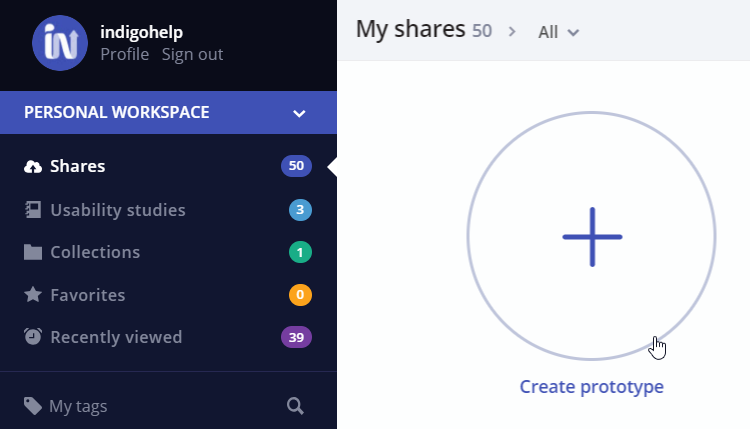
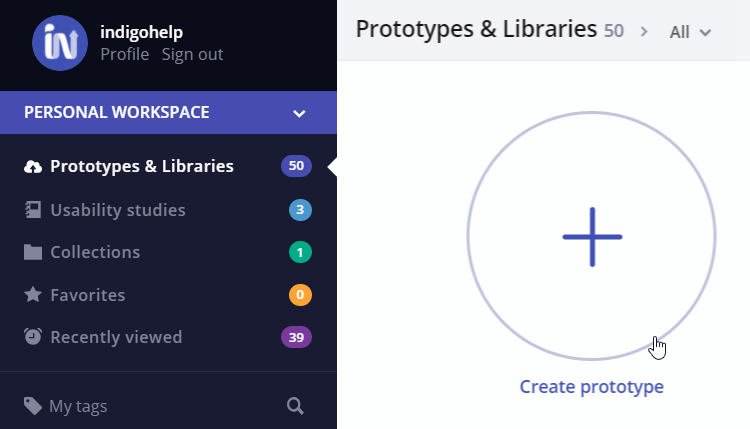
Replace images and text refering to shares instead of to prototypes

diff --git a/en/prototyping/workspaces.md b/en/prototyping/workspaces.md
@@ -47,7 +47,7 @@ You'll see all the prototypes belonging to that workspace.
 Once you select a workspace, any prototypes you create and publish will belong to that workspace. 
 
 > [!Note]
->You can choose any prototype and use the `Copy to workspace` action to make a copy of that share in a different workspace.
+>You can choose any prototype and use the `Copy to workspace` action to make a copy of that prototype in a different workspace.
 
 ### Managing group workspaces
 
@@ -79,10 +79,10 @@ When do I get it? | How do I configure it?
 You're invited to a workspace | It's sent automatically. 
 You're added to a workspace |  It's sent automatically.
 Someone publishes to the workspace | Enable workspace notifications.
-Someone replaces a share | Enable workspace notifications.
-Someone deletes a share | Enable workspace notifications.
+Someone replaces a prototype | Enable workspace notifications.
+Someone deletes a prototype | Enable workspace notifications.
 Someone archives the workspace | Enable workspace notifications.
-There are new comments on a workspace share | Subscribe to notifications for the share.
+There are new comments on a workspace prototype | Subscribe to notifications for the prototype.
 There's a new participant in a workspace usability study | Subscribe to notifications for the usability study.
 
 ##  Learn More

diff --git a/en/prototyping/commenting.md b/en/prototyping/commenting.md
@@ -16,9 +16,9 @@ Prototypes you publish have support for real-time commenting.
 <div class="divider--half"></div>
 <div class="divider--half"></div>
 
-Anyone you share the prototype link with can use the commenting panel in the prototype viewer and also subscribe to receive email notifications when new comments are added to the share.
+Anyone you share the prototype link with can use the commenting panel in the prototype viewer and also subscribe to receive email notifications when new comments are added to the prototype.
 
-To enable comments for your share you can use the settings section in the commenting panel of the prototype viewer toolbar, or the review and commenting options in the detail panel of your share.
+To enable comments for your prototype you can use the settings section in the commenting panel of the prototype viewer toolbar, or the review and commenting options in the detail panel of your prototype.
 
 <div class="divider--half"></div>
 <img src="../images/Commenting_2.png" srcset="../images/Commenting_2@2x.png 2x" />

diff --git a/en/prototyping/creating-a-prototype.md b/en/prototyping/creating-a-prototype.md
@@ -12,7 +12,7 @@ Create a prototype and publish it to validate flows with stakeholders and users.
 
 ### 1. Create a new prototype
 
-Select the item with the plus icon from your share list to create a new prototype.
+Select the item with the plus icon from your prototype and library list to create a new prototype.
 
 <div class="divider--half"></div>
 <img src="../images/Creating_A_Prototype_1.png" srcset="../images/Creating_A_Prototype_1@2x.png 2x" />
